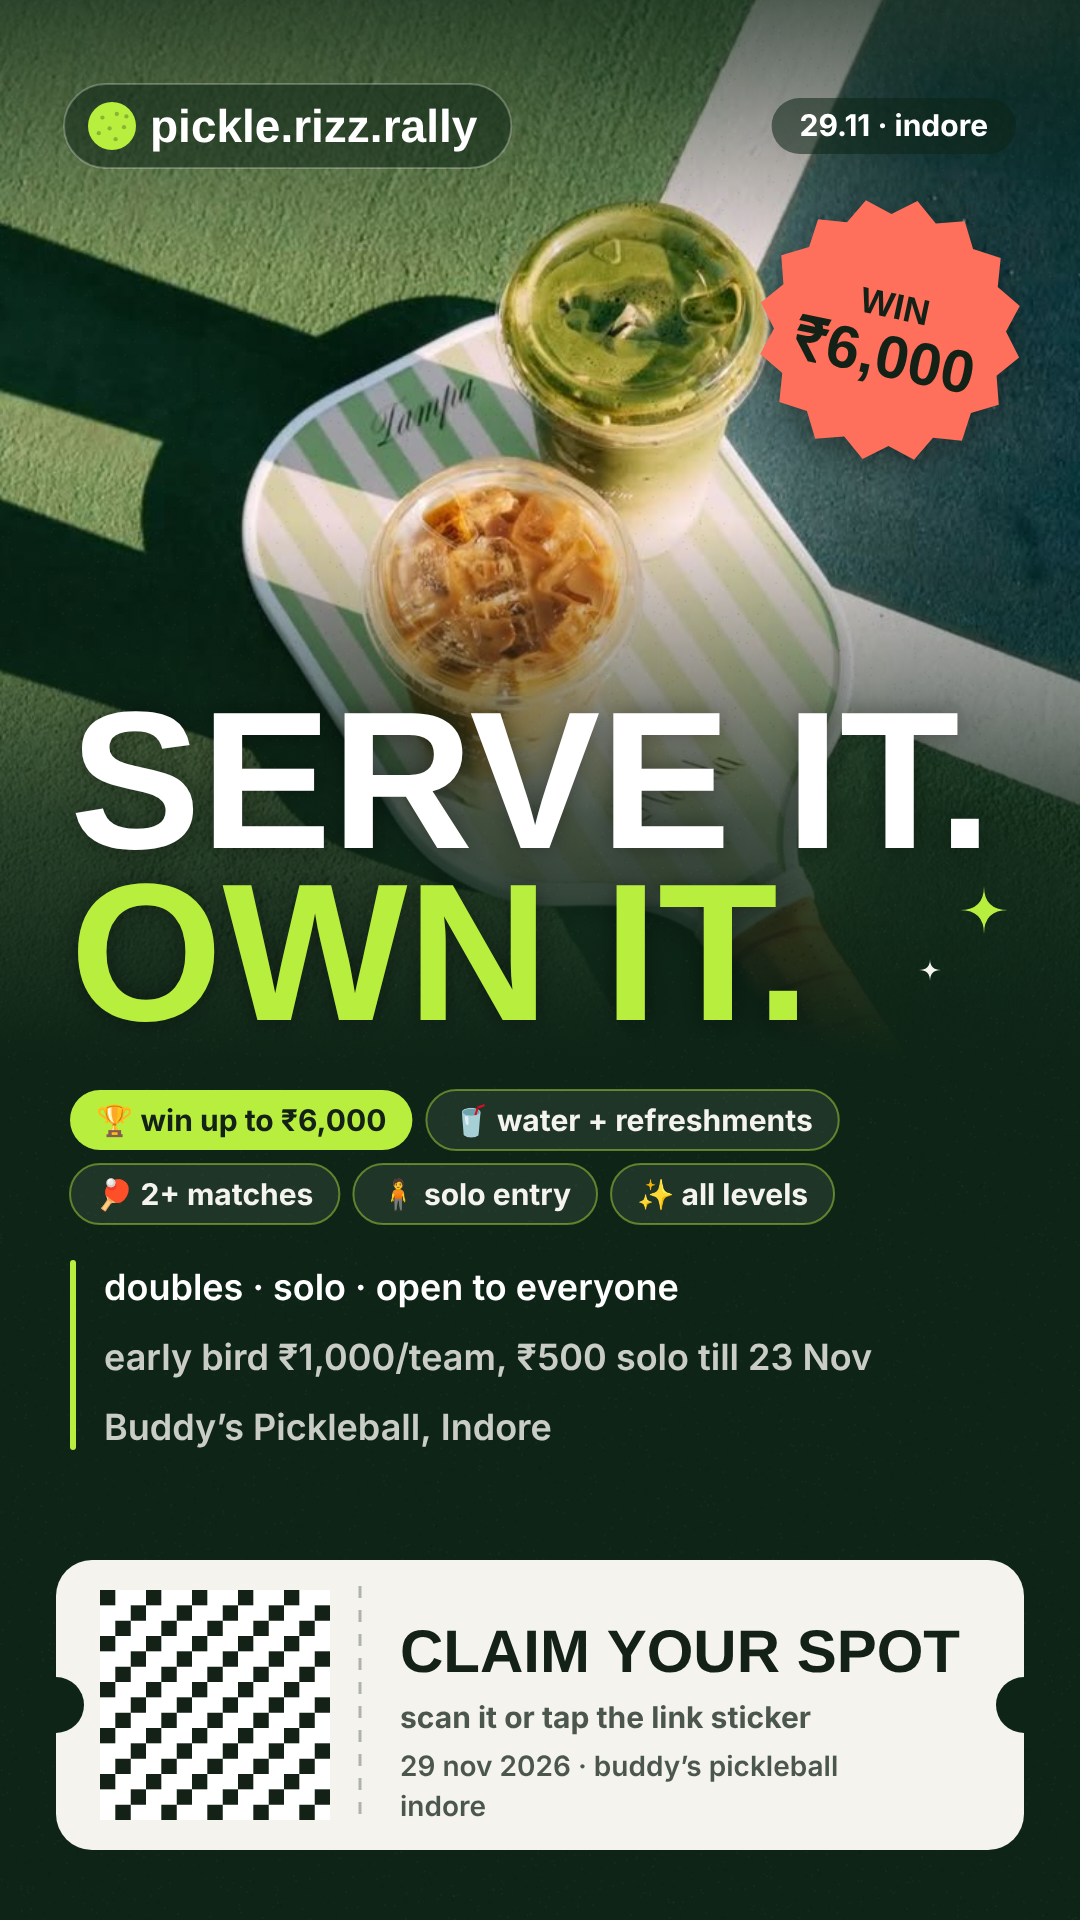
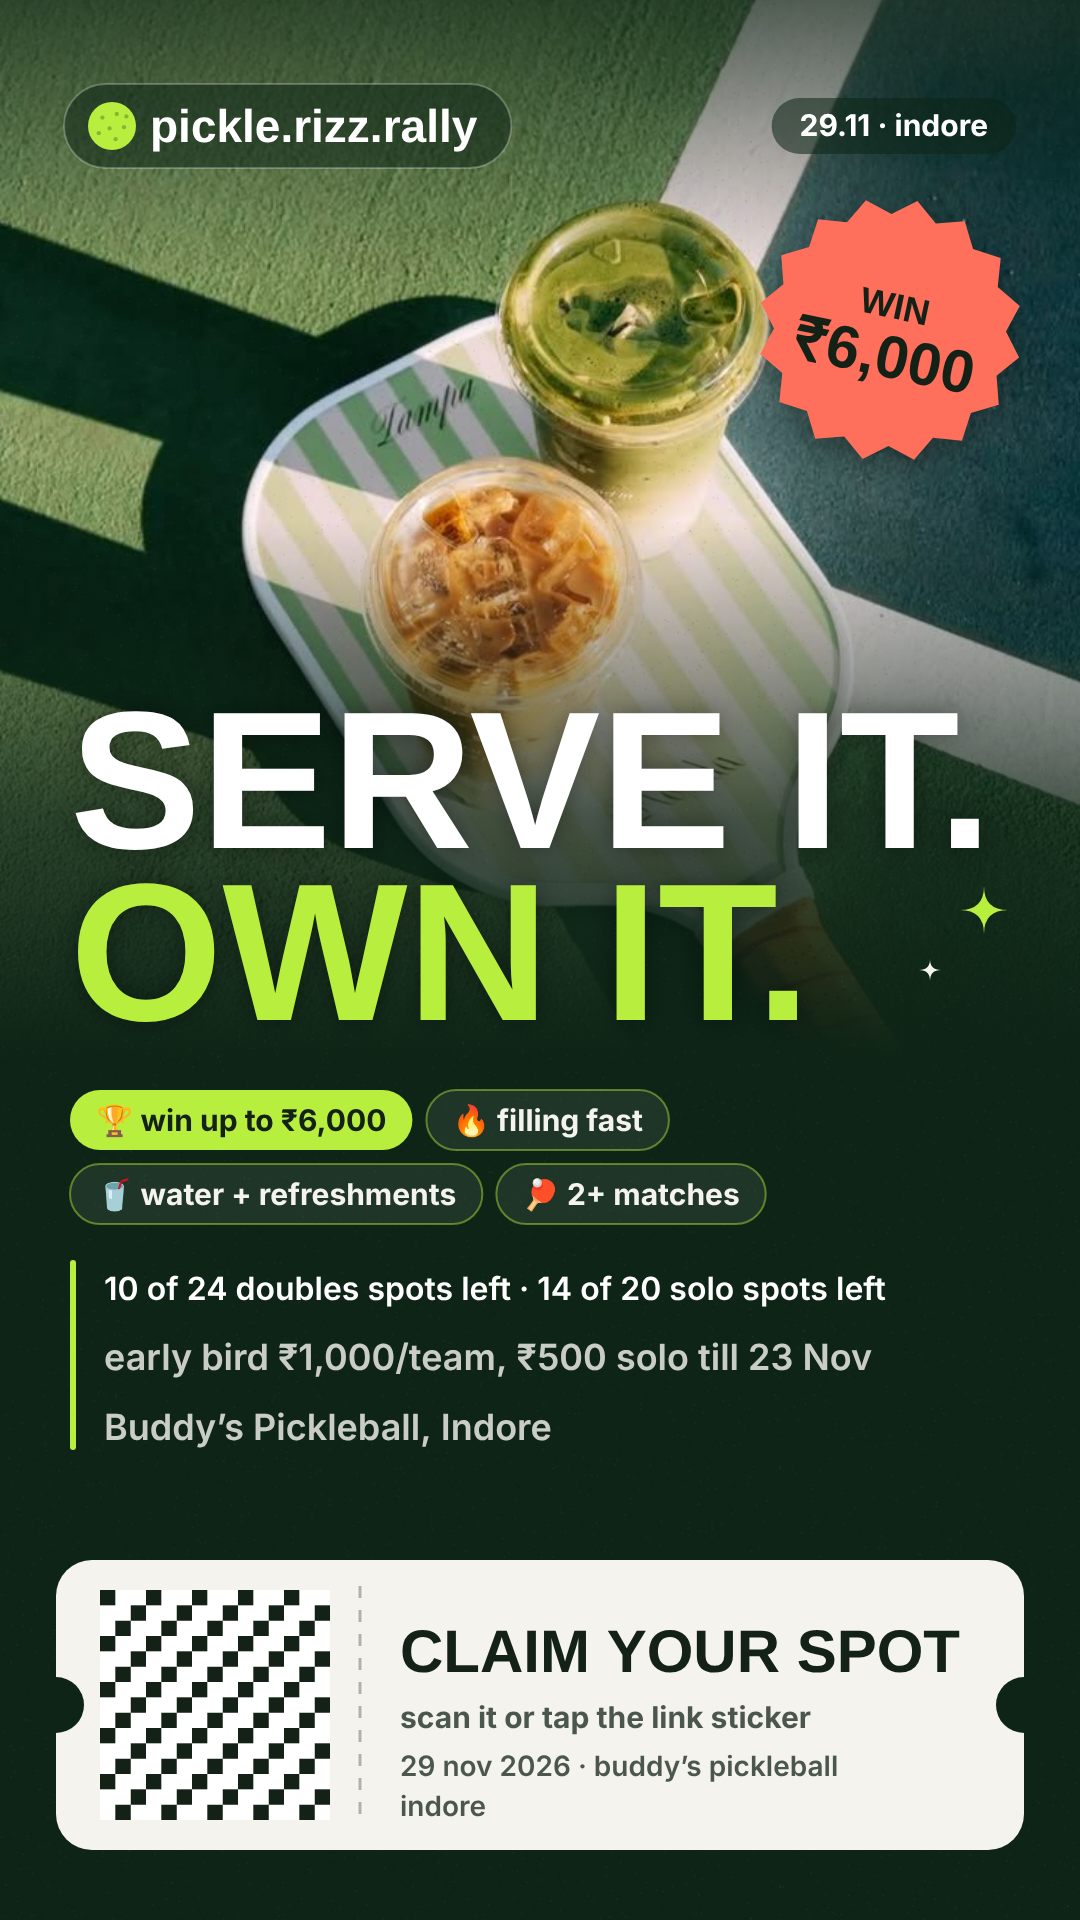
Add files via upload

Changed region(s): [[0.0917, 0.5625, 0.825, 0.6875]]

diff --git a/src/pages/Home.tsx b/src/pages/Home.tsx
@@ -1,7 +1,7 @@
 import { useMemo, useState } from "react";
 import { CREDIT, EVENT, feeLine, isEarlyBird, FEE, PERKS, PRIZES, TOP_PRIZE, photo, rupees, prettyPhone, siteUrl } from "../config";
 import { useLive } from "../lib/store";
-import { DIVS, fmtTime, isDone, isFull, matchTime, startMin, statusMap, type Div } from "../lib/tournament";
+import { DIVS, capFor, entriesIn, fmtTime, isDone, isFull, matchTime, spotsLeft, spotsText, startMin, statusMap, type Div } from "../lib/tournament";
 
 const HOW = [
   ["Claim your spot", "Pick Doubles or Solo and fill in the form. Takes about two minutes."],
@@ -37,8 +37,8 @@ export default function Home() {
     title: ["Serve it.", "Own it."],
     highlight: 1,
     sticker: ["win", rupees(TOP_PRIZE)],
-    chips: [`🏆 win up to ${rupees(TOP_PRIZE)}`, "🔥 limited spots", "🥤 water + refreshments", "🏓 2+ matches", "🧍 solo entry", "✨ all levels"],
-    lines: ["doubles · solo · open to everyone", feeLine(), `${EVENT.venue}, ${EVENT.city}`],
+    chips: [`🏆 win up to ${rupees(TOP_PRIZE)}`, "🔥 filling fast", "🥤 water + refreshments", "🏓 2+ matches", "🧍 solo entry", "✨ all levels"],
+    lines: [`${spotsText(state, "doubles")} · ${spotsText(state, "solo")}`, feeLine(), `${EVENT.venue}, ${EVENT.city}`],
     footer: regOpen ? "Claim your spot" : "Follow live",
     url: regOpen ? `${siteUrl()}#/register` : `${siteUrl()}#/live`,
   };
@@ -124,11 +124,7 @@ export default function Home() {
                   </span>
                   {isFull(state, "doubles") && isFull(state, "solo")
                     ? "Both categories are full"
-                    : isFull(state, "doubles")
-                      ? "Doubles is full · limited solo spots left"
-                      : isFull(state, "solo")
-                        ? "Solo is full · limited doubles spots left"
-                        : "Limited spots · grab yours before they’re gone"}
+                    : `${spotsText(state, "doubles").replace(/^./, (c) => c.toUpperCase())} · ${spotsText(state, "solo")}`}
                 </p>
               )}
             </div>
@@ -303,10 +299,16 @@ export default function Home() {
                       <span>
                         <strong className="font-display text-3xl uppercase md:text-4xl">{d.label}</strong>
                         <small className="mt-1 block text-sm text-white/50">{d.detail}</small>
+                        <small className="mt-1 block text-sm font-bold md:hidden" style={{ color: d.color }}>
+                          {entriesIn(state, d.key)} / {capFor(state, d.key)} · {isFull(state, d.key) ? "full" : `${spotsLeft(state, d.key)} spots left`}
+                        </small>
                       </span>
                       <span className="hidden text-sm md:block">
-                        <b style={{ color: d.color }}>{isFull(state, d.key) ? "Full" : "Limited"}</b>
-                        <small className="block text-white/45">{isFull(state, d.key) ? "no spots left" : "spots only"}</small>
+                        <b style={{ color: d.color }}>{entriesIn(state, d.key)} / {capFor(state, d.key)}</b>
+                        <small className="block text-white/45">{isFull(state, d.key) ? "full" : `${spotsLeft(state, d.key)} spots left`}</small>
+                        <span className="mt-2 block h-1.5 w-full overflow-hidden rounded-full bg-white/15" aria-hidden="true">
+                          <span className="block h-full rounded-full" style={{ width: `${Math.min(100, (entriesIn(state, d.key) / capFor(state, d.key)) * 100)}%`, background: d.color }} />
+                        </span>
                       </span>
                       <span className="grid h-12 w-12 place-items-center rounded-full border border-white/25 transition group-hover:rotate-[-30deg] group-hover:bg-[#b8ef3f] group-hover:text-[#132116]">
                         <Icon name="arrow" />

diff --git a/src/pages/Admin.tsx b/src/pages/Admin.tsx
@@ -6,7 +6,7 @@ import {
 } from "../lib/store";
 import {
   DIVS, buildKO, champion, divLabel, estimateFinish, fmtTime, generateSchedule, isBye, isDone, matchTime, nameOf,
-  namesOf, propagate, startMin, statusMap, uid, type Div, type Match, type Settings, type State,
+  namesOf, propagate, spotsLeft, spotsText, startMin, statusMap, uid, type Div, type Match, type Settings, type State,
 } from "../lib/tournament";
 import { Icon } from "../components/Icon";
 import { Empty, PageTitle, ScoreEditor, Shell } from "../components/ui";
@@ -442,13 +442,13 @@ function Stories() {
     ["Registrations open", "Bring teams in", {
       kicker: `29.11 · ${EVENT.city}`, title: ["Serve it.", "Own it."], highlight: 1,
       sticker: ["win", rupees(TOP_PRIZE)],
-      chips: [`🏆 win up to ${rupees(TOP_PRIZE)}`, "🔥 limited spots", "🥤 water + refreshments", "🏓 2+ matches", "🧍 solo entry", "✨ all levels"],
-      lines: ["doubles · solo · open to everyone", feeLine(), `registration closes ${EVENT.registrationCloses}`],
+      chips: [`🏆 win up to ${rupees(TOP_PRIZE)}`, "🔥 filling fast", "🥤 water + refreshments", "🏓 2+ matches", "🧍 solo entry", "✨ all levels"],
+      lines: [`${spotsText(state, "doubles")} · ${spotsText(state, "solo")}`, feeLine(), `registration closes ${EVENT.registrationCloses}`],
       footer: "Claim your spot", url: `${base}#/register` }],
     ["Last few spots", "Push before the deadline", {
       kicker: "filling fast", title: ["Last few", "spots fr"], highlight: 1, sticker: isEarlyBird() ? ["early bird", rupees(FEE.early)] : ["don’t", "sleep"],
-      chips: [`🏆 ${rupees(TOP_PRIZE)} top prize`, "🔥 limited spots", "🥤 water + refreshments", "🏓 2+ matches"],
-      lines: ["limited spots in doubles and solo", feeLine(), `registration closes ${EVENT.registrationCloses}`], footer: "Grab your spot", url: `${base}#/register` }],
+      chips: [`🏆 ${rupees(TOP_PRIZE)} top prize`, "🥤 water + refreshments", "🏓 2+ matches"],
+      lines: [spotsText(state, "doubles"), spotsText(state, "solo"), feeLine()], footer: "Grab your spot", url: `${base}#/register` }],
     ["Schedule is out", "After you generate pools", {
       kicker: "pools are drawn", title: ["Schedule", "dropped"], highlight: 1, sticker: ["find", "your court"],
       lines: [`First serve ${fmtTime(startMin(state))}`, `${state.teams.length} teams, ${state.settings.courts} courts`, "Find your team and your court"],

diff --git a/src/lib/tournament.ts b/src/lib/tournament.ts
@@ -11,7 +11,12 @@ export const divLabel = (d: Div) => DIVS.find((x) => x.key === d)?.label ?? d;
 export const isSoloDiv = (d: Div) => d === "solo";
 // Entry limit for a category, and whether it has filled up
 export const capFor = (s: State, d: Div) => (d === "solo" ? s.settings.capSolo : s.settings.capDoubles);
-export const isFull = (s: State, d: Div) => s.teams.filter((t) => t.div === d).length >= capFor(s, d);
+export const entriesIn = (s: State, d: Div) => s.teams.filter((t) => t.div === d).length;
+export const spotsLeft = (s: State, d: Div) => Math.max(0, capFor(s, d) - entriesIn(s, d));
+export const isFull = (s: State, d: Div) => spotsLeft(s, d) === 0;
+// "7 of 24 doubles spots left" style text, used on the site and the stories
+export const spotsText = (s: State, d: Div) =>
+  isFull(s, d) ? `${d === "solo" ? "solo" : "doubles"} is full` : `${spotsLeft(s, d)} of ${capFor(s, d)} ${d === "solo" ? "solo" : "doubles"} spots left`;
 // "Rohan Mehta and Aditya Jain", or just "Rohan Mehta" for a solo entry
 export const namesOf = (t: { p1: string; p2: string }) => (t.p2 ? `${t.p1} and ${t.p2}` : t.p1);
 
